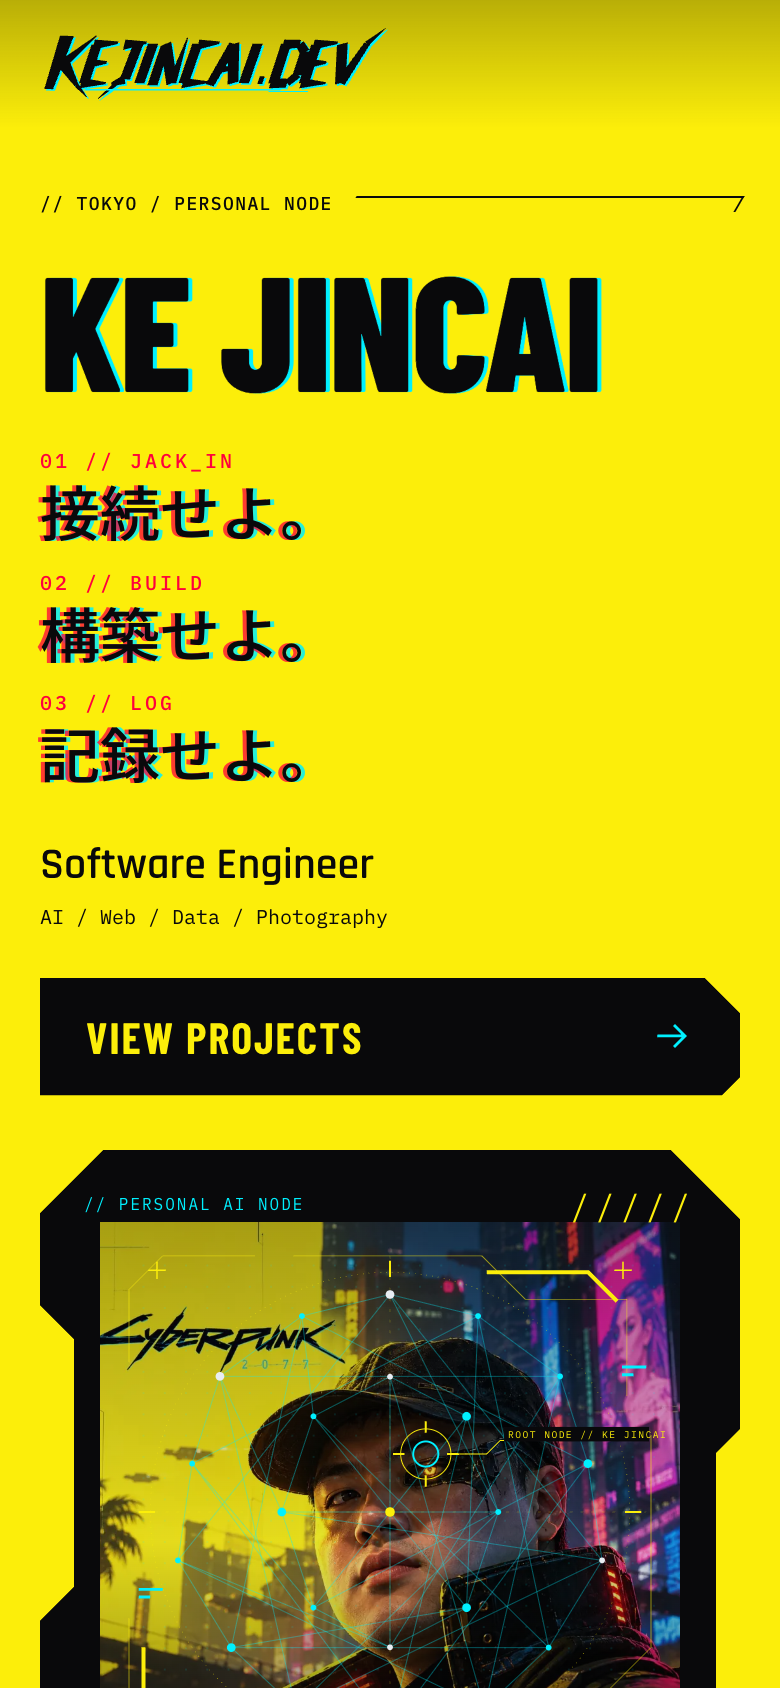
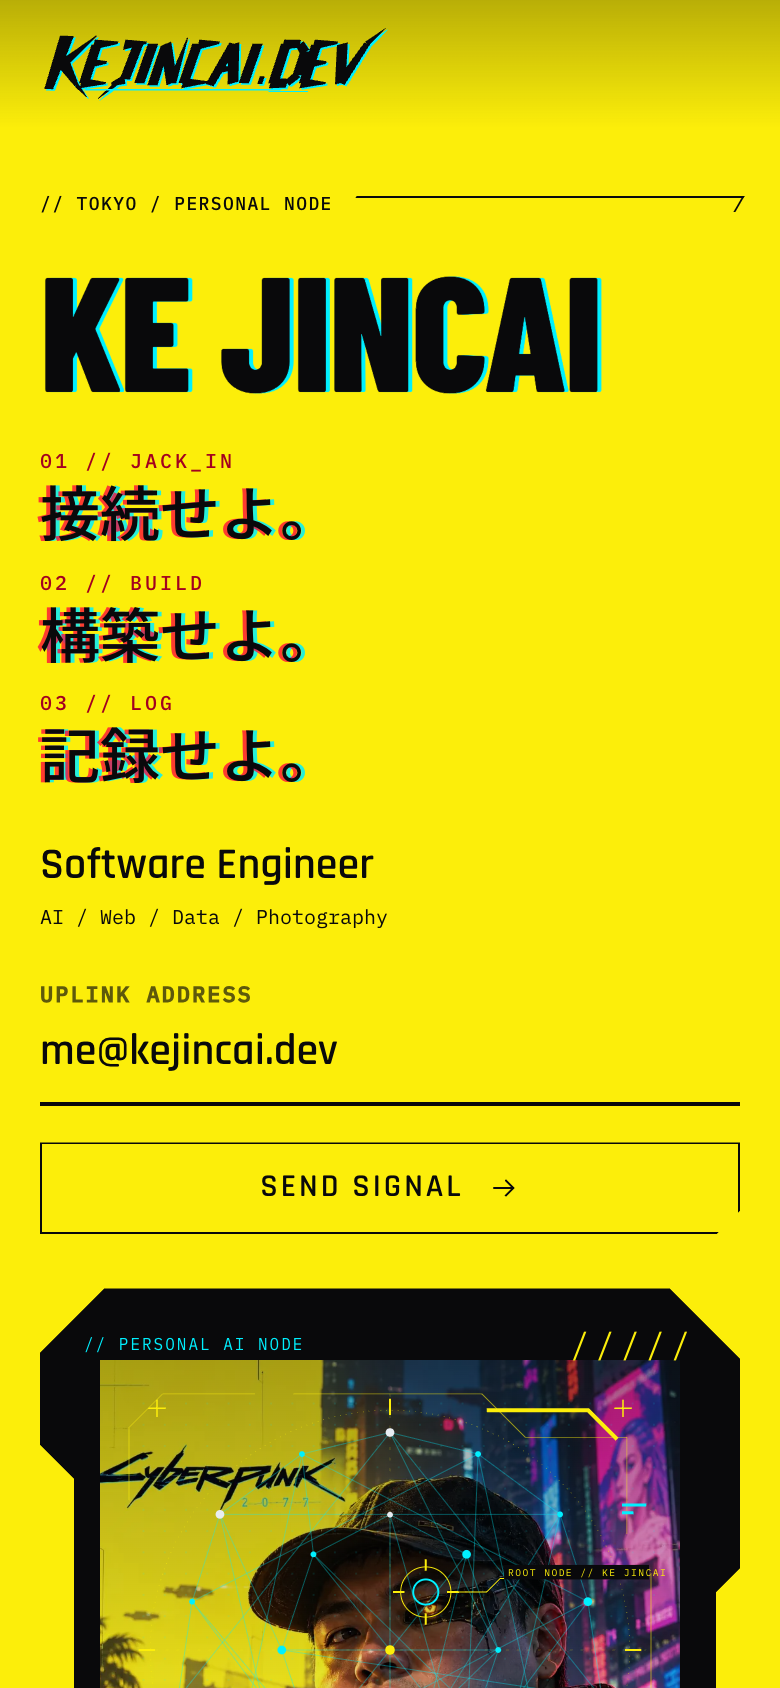
Reduce Home to a single screen with a mail uplink
Home is now only the hero: name, directives, role line and the portrait
radar, with the mailto uplink row in place of the VIEW PROJECTS button
and a skyline edge into the footer. The numbered 01-04 sections, the
status band and the scroll cue are gone; Projects, Lab and About are
reached from the header tabs and the footer links. The posters, node
board and Lab band stay on Projects.

The standalone uplink band component, the inline directive variant and
their styles are removed. Docs and README screenshots follow.

diff --git a/src/styles/global.css b/src/styles/global.css
@@ -109,8 +109,7 @@ p {
 }
 .mono,
 .micro,
-.eyebrow,
-.system-grid {
+.eyebrow {
   font-family: var(--font-mono);
 }
 .micro {
@@ -292,33 +291,16 @@ p {
   position: relative;
   isolation: isolate;
 }
-.hero::after {
-  content: '';
-  position: absolute;
-  left: 0;
-  right: 0;
-  bottom: -1px;
-  height: 15px;
-  background: var(--bg-main);
-  clip-path: polygon(
-    0 0,
-    5% 0,
-    calc(5% + 15px) 100%,
-    70% 100%,
-    calc(70% + 15px) 0,
-    100% 0,
-    100% 100%,
-    0 100%
-  );
-}
 .hero-inner {
   display: grid;
   grid-template-columns: 1.05fr 1fr;
   gap: 45px;
   align-items: center;
-  min-height: calc(78svh - 72px);
-  padding-top: 44px;
-  padding-bottom: 64px;
+  /* Home is this one screen: fill the viewport under the header, less
+     the skyline edge. */
+  min-height: calc(100svh - 72px - 22px);
+  padding-top: 32px;
+  padding-bottom: 40px;
   position: relative;
 }
 .hero-copy {
@@ -424,17 +406,6 @@ p {
 .text-link:hover .arrow {
   transform: translateX(4px);
 }
-.hero .button {
-  background: var(--bg-main);
-  color: var(--yellow);
-  min-width: 265px;
-}
-.hero .button:hover {
-  color: var(--cyan);
-}
-.hero .button .arrow {
-  color: var(--cyan);
-}
 .node-network {
   position: relative;
   padding: 25px 19px 23px;
@@ -535,58 +506,6 @@ p {
     opacity: 0.85;
     transform: scale(1.12);
   }
-}
-.scroll-cue {
-  position: absolute;
-  bottom: 22px;
-  left: 0;
-  display: flex;
-  align-items: center;
-  gap: 14px;
-  color: var(--bg-main);
-  font-size: 9px;
-}
-.scroll-cue span {
-  font-size: 18px;
-}
-.system-band {
-  background: var(--bg-main);
-  border-bottom: 1px solid var(--border);
-}
-.system-grid {
-  display: grid;
-  grid-template-columns: 1fr 1.4fr 1fr 0.9fr 0.9fr 1.2fr;
-  padding-block: 27px;
-}
-.system-grid > div {
-  padding-inline: 20px;
-  border-left: 1px solid var(--border);
-}
-.system-grid > div:first-child {
-  padding-left: 0;
-  border: 0;
-}
-.system-grid dt {
-  font-size: 9px;
-  letter-spacing: 1px;
-  color: var(--text-muted);
-  margin-bottom: 7px;
-}
-.system-grid dd {
-  font-family: 'Rajdhani', sans-serif;
-  font-size: 20px;
-  font-weight: 600;
-  line-height: 1.2;
-  letter-spacing: 0.6px;
-  color: var(--yellow);
-  margin: 0;
-}
-.system-grid dd.online {
-  color: var(--cyan);
-}
-.system-grid dd > .micro {
-  margin-left: 8px;
-  font-size: 10px;
 }
 .text-link {
   display: inline-flex;
@@ -720,14 +639,6 @@ p {
   .hero-description .mono {
     font-size: 10px;
   }
-  .system-grid {
-    grid-template-columns: repeat(3, 1fr);
-    gap: 24px 0;
-  }
-  .system-grid > div:nth-child(4) {
-    border-left: 0;
-    padding-left: 0;
-  }
 }
 @media (max-width: 760px) {
   .container {
@@ -758,10 +669,6 @@ p {
   .hero-description {
     border: 0;
     padding-left: 0;
-  }
-  .hero .button {
-    min-width: 230px;
-    font-size: 18px;
   }
   .node-network {
     padding: 22px 9px;
@@ -835,13 +742,6 @@ p {
     font-size: 10px;
     max-width: none;
   }
-  .hero .button {
-    min-width: 0;
-    width: 100%;
-    font-size: 22px;
-    min-height: 54px;
-    padding: 13px 23px;
-  }
   .node-network {
     width: 100%;
     padding: 20px 12px 23px;
@@ -864,34 +764,6 @@ p {
   }
   .network-bottom .online {
     font-size: 12px;
-  }
-  .scroll-cue {
-    left: auto;
-    right: 0;
-    bottom: 15px;
-    font-size: 8px;
-  }
-  .system-grid {
-    grid-template-columns: repeat(2, minmax(0, 1fr));
-    gap: 22px 0;
-    padding-block: 26px;
-  }
-  .system-grid > div {
-    padding-inline: 17px;
-  }
-  .system-grid > div:nth-child(odd) {
-    padding-left: 0;
-    border-left: 0;
-  }
-  .system-grid > div:nth-child(4) {
-    padding-left: 17px;
-    border-left: 1px solid var(--border);
-  }
-  .system-grid dt {
-    font-size: 8px;
-  }
-  .system-grid dd {
-    font-size: 18px;
   }
   .page-content {
     padding-top: 113px;
@@ -1897,45 +1769,11 @@ a.cp-button:focus-visible::before {
 }
 
 /* Official-site newsletter module, repurposed as an e-mail uplink. */
-.uplink {
-  margin-top: 96px;
-  background: var(--yellow);
-  color: var(--bg-main);
-}
-.uplink-inner {
-  display: flex;
-  flex-direction: column;
-  align-items: center;
-  padding-block: 64px 72px;
-  text-align: center;
-}
-.uplink-inner > p.micro {
-  color: var(--bg-main);
-}
-.uplink h2 {
-  margin-top: 14px;
-  font-family: 'Noto Sans JP', sans-serif;
-  font-size: clamp(40px, 6vw, 84px);
-  font-weight: 500;
-  line-height: 1.1;
-}
-.uplink-lead {
-  margin-top: 16px;
-  font-family: 'Rajdhani', 'Noto Sans JP', sans-serif;
-  font-size: 18px;
-  font-weight: 600;
-  letter-spacing: 0.5px;
-}
-.uplink .poster-brackets {
-  align-self: stretch;
-  margin: 36px 12% 28px;
-}
 .uplink-form {
   display: flex;
   align-items: end;
   gap: 18px;
-  width: min(640px, 100%);
-  margin-bottom: 36px;
+  width: min(560px, 100%);
 }
 .uplink-field {
   flex: 1;
@@ -1994,9 +1832,6 @@ a.cp-button:focus-visible::before {
   padding-block: 48px 36px;
   border-top: 1px solid var(--border);
   text-align: center;
-}
-main:has(> .uplink:last-child) + .site-footer {
-  border-top: 0;
 }
 .footer-nav {
   display: flex;
@@ -2117,15 +1952,6 @@ main:has(> .uplink:last-child) + .site-footer {
   }
   .lab-ticker span {
     font-size: 24px;
-  }
-  .uplink {
-    margin-top: 72px;
-  }
-  .uplink-inner {
-    padding-block: 44px 52px;
-  }
-  .uplink .poster-brackets {
-    margin-inline: 0;
   }
   .uplink-form {
     flex-direction: column;
@@ -2426,10 +2252,6 @@ main:has(> .uplink:last-child) + .site-footer {
 .directive + .directive {
   margin-top: 6px;
 }
-.directives-inline .directive {
-  display: inline-block;
-  margin: 0 0.18em;
-}
 .directive-tag {
   display: block;
   font-family: var(--font-mono);
@@ -2440,10 +2262,6 @@ main:has(> .uplink:last-child) + .site-footer {
   white-space: nowrap;
   /* Darker than --red so the small tag passes contrast on yellow bands. */
   color: #a3001f;
-}
-.directives-inline .directive-tag {
-  font-size: 12px;
-  text-align: left;
 }
 .directive-text {
   position: relative;

diff --git a/docs/design/README.md b/docs/design/README.md
@@ -12,11 +12,11 @@ The owner then asked for the layout to follow cyberpunk.net more closely. This p
 | Logo        | Brush-slash wordmark                                | Original tapered-stroke lettering in `Wordmark.astro`; no copied letterforms or fan fonts                                                     |
 | Product row | Yellow band, skyline edges, tall lit posters        | `ProjectPosters.astro` + `SkylineEdge.astro`; posters link to dossiers on Projects                                                            |
 | News module | Dotted grid, cyan highlight tile, `NEWS_` tiles     | `NodeBoard.astro` for the three independent sites                                                                                             |
-| Newsletter  | Yellow band, underlined field, outlined button      | `AboutUplink.astro`, a mailto uplink                                                                                                          |
+| Newsletter  | Yellow band, underlined field, outlined button      | The mailto uplink row inside the Home hero                                                                                                    |
 | Footer      | Centered link rows and legal line                   | `Footer.astro`; icon tiles and the phone menu were later removed at the owner's request                                                       |
 | Hero visual | Key art                                             | The owner's cyber portrait fills the radar in `NodeNetwork.astro`                                                                             |
 
-The About page follows the same system: a yellow ID band with the portrait cropped to the face on an ID card, a profile log in the news-module style, a stat strip and the closing uplink band. The earlier tagline 構築。解析。記録。 was replaced by the imperative 接続せよ。構築せよ。記録せよ。 with HUD tags, closer to the game's mission-directive voice.
+The About page follows the same system: a yellow ID band with the portrait cropped to the face on an ID card, a profile log in the news-module style and the interests; its stat strip and closing uplink band were later removed because they repeated Home. Home itself was then reduced to a single screen (hero, portrait radar, directives and the mailto row). The earlier tagline 構築。解析。記録。 was replaced by the imperative 接続せよ。構築せよ。記録せよ。 with HUD tags, closer to the game's mission-directive voice.
 
 The portrait is the one exception to "no game artwork or logos": it contains the Cyberpunk 2077 wordmark and is kept whole because the owner asked for the complete image. Phones show only the logo in the header; navigation there goes through in-page actions and the footer. Mobile Safari needs `text-size-adjust: 100%` and no `aspect-ratio` combined with `min-height`, otherwise pinch zoom widens the layout.
 
@@ -57,7 +57,7 @@ See [release verification](../VERIFICATION.md) for checks. Retained [screenshots
 
 ## Owner-curated portfolio hierarchy
 
-Only Infinity New Tab, Disk Ferry and Safe Clip receive major cards on Home and Projects. The three independent websites remain. Nine other repositories are listed compactly in Lab, as six experiments and three small tools.
+Only Infinity New Tab, Disk Ferry and Safe Clip receive major cards, now on Projects only. The three independent websites remain. Nine other repositories are listed compactly in Lab, as six experiments and three small tools.
 
 | Review point | Actual render                                                                              |
 | ------------ | ------------------------------------------------------------------------------------------ |

diff --git a/docs/CONTENT.md b/docs/CONTENT.md
@@ -10,13 +10,13 @@ Edit `src/data/portfolio.ts`. The owner selected twelve public repositories in t
 
 Each record contains the exact repository slug, display name, platform / technology tags and a short description. Check the current public README before changing a description. Group membership is editorial; do not infer release readiness or maintenance status from it.
 
-Home and Projects feature only Infinity New Tab, Disk Ferry and Safe Clip. Both pages show them as a yellow poster module modelled on the cyberpunk.net product row (`src/components/ProjectPosters.astro`, with `SkylineEdge.astro` section edges); each poster links to its full-width system dossier on Projects (`src/components/ProjectDossier.astro`, anchored by repository slug). Their extra fields — `system`, `metric`, `log`, `specs` and `release` — must be concrete facts from the README or release tags (versions, parameters, guarantees), never stars, download counts or invented status. Lab lists the remaining nine projects in two groups under a yellow index band: each group keeps its `title` and `description` from the data as a section heading, and each project is a compact card with an `EXP_` or `UTL_` code, name, description and tags. They do not get posters, dossiers or status filters. Counts derive from the data. Cards and list rows link directly to the owner's public repositories. RSS uses these records without inventing original release dates.
+Home is a single screen: the hero with the portrait radar, the directives, the role line and a mailto uplink row, then the footer. Other pages are reached from the header tabs and the footer links; Home has no numbered sections. Projects features only Infinity New Tab, Disk Ferry and Safe Clip, as a yellow poster module modelled on the cyberpunk.net product row (`src/components/ProjectPosters.astro`, with `SkylineEdge.astro` section edges); each poster links to its full-width system dossier on Projects (`src/components/ProjectDossier.astro`, anchored by repository slug). Their extra fields — `system`, `metric`, `log`, `specs` and `release` — must be concrete facts from the README or release tags (versions, parameters, guarantees), never stars, download counts or invented status. Lab lists the remaining nine projects in two groups under a yellow index band: each group keeps its `title` and `description` from the data as a section heading, and each project is a compact card with an `EXP_` or `UTL_` code, name, description and tags. They do not get posters, dossiers or status filters. Counts derive from the data. Cards and list rows link directly to the owner's public repositories. RSS uses these records without inventing original release dates.
 
 ## Independent websites
 
 Edit `src/data/site.ts`. 青空しおり, PAUL.LOG and FDE RADAR are retained as independent site connections. `ONLINE` is an editorial label, not monitored uptime.
 
-Home and Projects render these three sites as a cyberpunk.net-style news module (`src/components/NodeBoard.astro`): node 01 is the cyan highlight tile, the others are `NODE_` tiles. Below it, `LabChannel.astro` shows the Lab count and a ticker of the nine Lab entries; Home closes with the yellow `AboutUplink.astro` module (skyline edges, mailto uplink) before the centered footer.
+Projects renders these three sites as a cyberpunk.net-style news module (`src/components/NodeBoard.astro`): node 01 is the cyan highlight tile, the others are `NODE_` tiles. Below it, `LabChannel.astro` shows the Lab count and a ticker of the nine Lab entries.
 
 The previous assistant-selected lab entries and their detail routes have been removed. Add new repositories only when the owner selects them.
 

diff --git a/README.md b/README.md
@@ -68,10 +68,10 @@ The root site introduces these projects without duplicating their content.
 
 ## What's included
 
-- **Home** — three selected software projects and three independent site connections.
-- **Projects** — Infinity New Tab, Disk Ferry and Safe Clip, plus the three independent websites.
-- **Lab** — a compact list of six experiments and three small tools.
-- **About** — interests and a concise personal introduction.
+- **Home** — a single screen: name, directives, the portrait radar and a mailto uplink.
+- **Projects** — three selected software projects as posters and dossiers, plus the three independent site connections.
+- **Lab** — six experiments and three small tools as coded cards under a yellow index band.
+- **About** — a node ID card with the portrait, a short introduction and five interests tied to real projects.
 - **404** — a disconnected node, with a route back home.
 - **RSS + sitemap** — generated at build time.
 - **Responsive layouts** — phone navigation, single-column cards and compact lab rows.

diff --git a/docs/VERIFICATION.md b/docs/VERIFICATION.md
@@ -46,5 +46,5 @@ Not available yet. The PageSpeed Insights API has no keyless quota, and a new pe
 
 - Twelve owner-selected repositories: three selected systems with posters and dossiers, six experiments and three utilities as Lab cards.
 - Dossier facts come from each repository's README and release tags; star counts are deliberately omitted.
-- Three independent site nodes appear on Home and Projects. `ONLINE` is editorial, not monitored.
+- Three independent site nodes appear on Projects. `ONLINE` is editorial, not monitored.
 - RSS has twelve project items with GitHub destinations and no invented publication dates.
